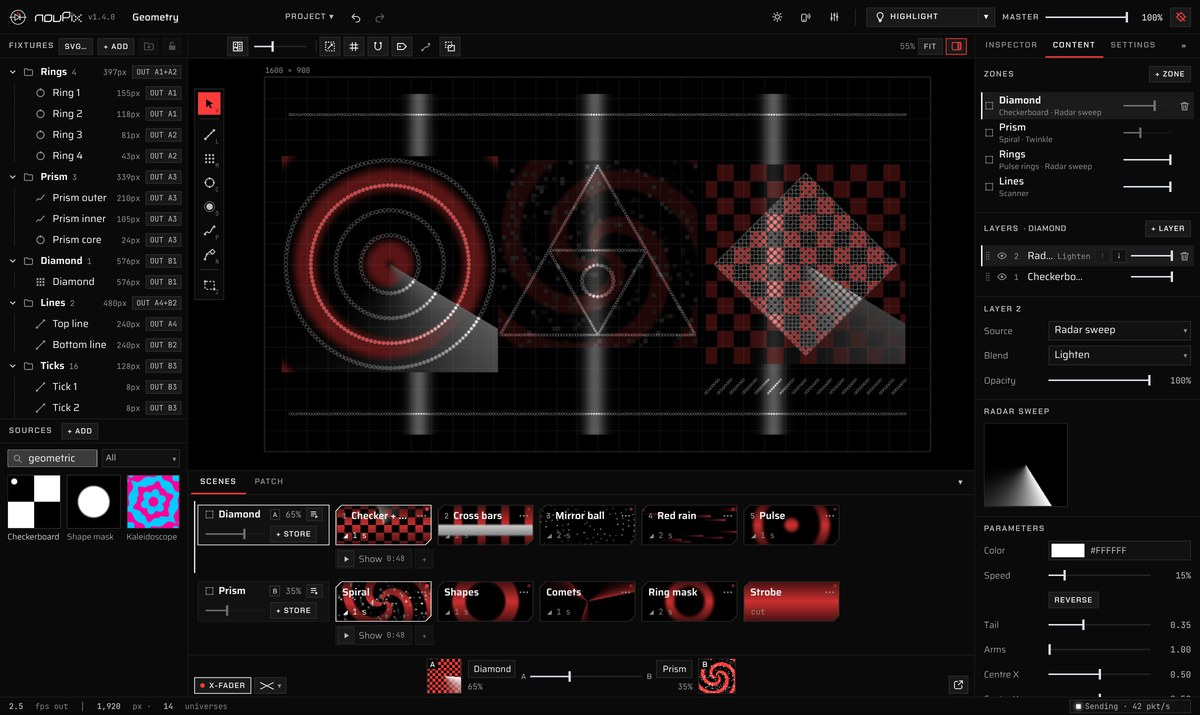
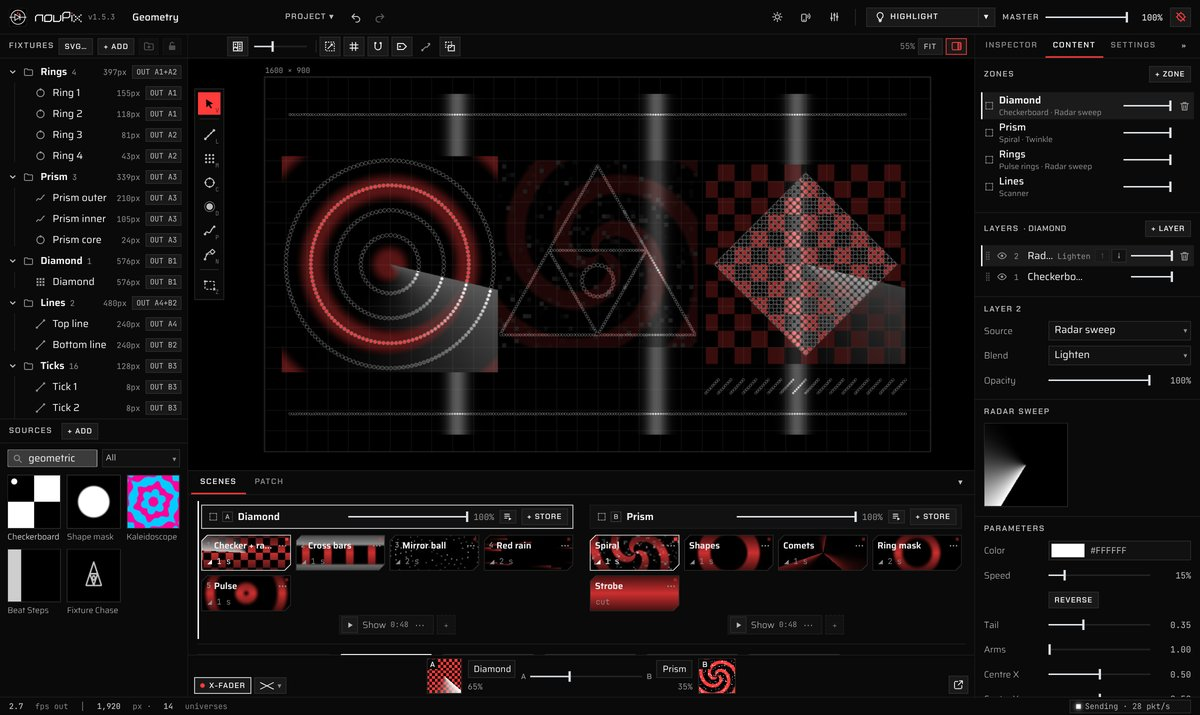
Site: 1.5.3 (follow the music, interactive content, DDP and WLED, the X-Fader's zones side by side); pictures from 1.5.3
Claude-Session: https://claude.ai/code/session_01TnTf954bCnfcgD4L8cjhPo

diff --git a/docs/index.html b/docs/index.html
@@ -4,9 +4,9 @@
 <meta charset="utf-8">
 <meta name="viewport" content="width=device-width, initial-scale=1">
 <title>nouPix · free, open-source LED pixel mapping</title>
-<meta name="description" content="nouPix maps your LED fixtures, plays effects, shaders, video and window capture on them in zones and layers, and sends it all out over Art-Net or sACN. Free and open source (AGPL-3.0), for macOS, Windows, Linux and Raspberry Pi.">
+<meta name="description" content="nouPix maps your LED fixtures, plays effects, shaders, video and window capture on them in zones and layers, follows the music, and sends it all out over Art-Net, sACN or DDP. Free and open source (AGPL-3.0), for macOS, Windows, Linux and Raspberry Pi.">
 <meta property="og:title" content="nouPix · free, open-source LED pixel mapping">
-<meta property="og:description" content="Map LED fixtures, play effects in zones and layers, send Art-Net or sACN. Free and open source.">
+<meta property="og:description" content="Map LED fixtures, play effects in zones and layers, follow the music, send Art-Net, sACN or DDP. Free and open source.">
 <meta property="og:image" content="https://noupix.nouled.com/img/og.jpg">
 <meta name="theme-color" content="#000000">
 <link rel="icon" href="img/favicon.svg" type="image/svg+xml">
@@ -347,19 +347,19 @@
     <div class="np-wrap">
       <p class="np-label"><span class="np-red">LED pixel mapping</span> · Art&#8209;Net · Free &amp; open source</p>
       <h1><span>Draw it.</span><span class="np-dim">Patch it.</span><span>Light it<span class="np-r" style="display:inline">.</span></span></h1>
-      <p class="np-lede">nouPix maps your LED fixtures, plays effects, shaders, video and window capture on them in <b>zones and layers</b>, and sends it all out over Art-Net or sACN. <b>Free and open source</b>, for macOS, Windows, Linux and Raspberry Pi.</p>
+      <p class="np-lede">nouPix maps your LED fixtures, plays effects, shaders, video and window capture on them in <b>zones and layers</b>, follows the music, and sends it all out over Art-Net, sACN or DDP. <b>Free and open source</b>, for macOS, Windows, Linux and Raspberry Pi.</p>
       <div class="np-cta">
         <a class="np-btn primary" href="#np-download">Download free <span class="np-arrow">↓</span></a>
         <a class="np-btn" data-np-href="" href="https://github.com/nouled-studio/nouPix">Source on GitHub <span class="np-arrow">↗</span></a>
       </div>
-      <p class="np-meta"><span data-np="version">v1.4.0</span> · macOS 12+ · Windows 10+ · Linux and Raspberry Pi from source · <span class="np-oss">AGPL-3.0</span></p>
+      <p class="np-meta"><span data-np="version">v1.5.3</span> · macOS 12+ · Windows 10+ · Linux and Raspberry Pi from source · <span class="np-oss">AGPL-3.0</span></p>
     </div>
     <div class="np-wrap">
       <div class="np-zone np-shotwrap">
         <span class="np-ztag"><b>Stage</b> Geometry · 4 zones <i>●</i></span>
         <figure class="np-shot">
           <span class="np-tick" aria-hidden="true"></span>
-          <picture><source media="(max-width:700px)" srcset="img/app-hero-m.webp" width="1572" height="1284"><img src="img/app-hero.webp" width="2400" height="1430" alt="nouPix playing a geometric show: concentric rings, nested triangles and a diamond matrix in four zones, red and white; fixture list, stage, scenes with playlists and the Content panel with the layers of the Diamond zone; the X-Fader at the bottom mixes Diamond (A) and Prism (B)"></picture>
+          <picture><source media="(max-width:700px)" srcset="img/app-hero-m.webp" width="1572" height="1284"><img src="img/app-hero.webp" width="2400" height="1430" alt="nouPix playing a geometric show: concentric rings, nested triangles and a diamond matrix in four zones, red and white; fixture list, stage, the scenes of Diamond (A) and Prism (B) side by side with their playlists, the X-Fader under them mixing the two, and the Content panel with the layers of the Diamond zone"></picture>
         </figure>
         <div class="np-shotbar"><span><b>geometry.noupix</b> · 26 fixtures · 1,920 pixels · 14 universes</span><span>4 zones · 7 layers · 20 scenes · 4 playlists</span></div>
       </div>
@@ -367,10 +367,10 @@
     <div class="np-wrap">
       <div class="np-facts">
         <ul>
-          <li><b>53</b><span>built-in effects</span></li>
+          <li><b>70</b><span>built-in effects, music and touch too</span></li>
           <li><b>Layers</b><span>in zones, 8 blend modes</span></li>
           <li><b>8 / 16-bit</b><span>fixtures and dimming curves</span></li>
-          <li><b>Art&#8209;Net + sACN</b><span>together, with discovery</span></li>
+          <li><b>Art&#8209;Net · sACN · DDP</b><span>together, with discovery</span></li>
           <li><b>MIDI</b><span>learn, patch bay, macros</span></li>
           <li><b>Remote / HTTP</b><span>phones, tablets, show control and building systems</span></li>
         </ul>
@@ -396,7 +396,7 @@
   <section class="np-sec" id="np-features">
     <div class="np-wrap">
       <div class="np-sechead"><span class="np-mono">//</span><h2>What it does</h2></div>
-      <p class="np-secsub">Every picture and film on this page was made in nouPix itself, with one project: four zones of geometry, red and white.</p>
+      <p class="np-secsub">Every picture and film on this page was made in nouPix itself, most with one project: four zones of geometry, red and white.</p>
 
       <article class="np-feat np-zone">
         <span class="np-ztag"><b>Zone 01</b> 100% <i>●</i></span>
@@ -481,7 +481,7 @@
           <h3>Effects, shaders, video, capture and streams</h3>
           <p>From slow washes for architecture to hard chases for a show, on any part of the layout.</p>
           <ul class="np-list">
-            <li>53 built-in effects, sorted by mood, use, look and motion</li>
+            <li>70 built-in effects, sorted by mood, use, look and motion</li>
             <li>Your own ISF shaders, images and video: trim, loop, with or without sound</li>
             <li>Window capture, for example from other VJ software</li>
             <li><b>NDI and OMT streams in</b> from Resolume, TouchDesigner, OBS and other computers, as a source on any layer</li>
@@ -494,54 +494,92 @@
         </figure>
       </article>
 
-      <article class="np-feat np-wide np-zone">
-        <span class="np-ztag"><b>Zone 04</b> 100% <i>●</i></span>
+      <article class="np-feat np-zone">
+        <span class="np-ztag"><b>Zone 04</b> 124 bpm <i>●</i></span>
         <div class="np-ftext">
-          <div>
-          <p class="np-fnum">04 <i>/ Scenes</i></p>
-          <h3>Store a look. Fade back to it</h3>
-          <p>Build the show once, then play it by hand or let it run by itself.</p>
-          </div>
+          <p class="np-fnum">04 <i>/ Music</i></p>
+          <h3>Follow the music</h3>
+          <p>nouPix listens to a sound input and finds the beat, or you tap it. The lights pulse, chase and swell with the music.</p>
           <ul class="np-list">
-            <li>Scenes per zone with crossfades; the fade time sits on each scene</li>
-            <li>Playlists of scenes with play times: in a loop, once, or handing over to another</li>
-            <li>Keys 1–9 play the scenes of the selected zone; a separate Scenes window for a second screen</li>
-            <li><b>X-Fader</b>: one fader between two zones, with a live preview of each; Mix, Dip or Cut</li>
-            <li>Snapshots on scenes: each button shows what it plays</li>
+            <li><b>Tempo</b> from any sound input: it follows the kick, holds through breaks and build-ups, and moves to the next track's tempo by itself</li>
+            <li>Or tap it, with a button or a MIDI pad; Downbeat puts beat 1 where you want it</li>
+            <li>12 effects on the beat, the bass or the part of the spectrum you choose, from hard strobes to slow atmospheric ones</li>
+            <li><b>Fixture Chase</b>: your groups or fixtures one after another on the beat, on its own or as a mask over any content</li>
+            <li>Your own ISF shaders follow it too</li>
           </ul>
         </div>
         <figure>
-          <div class="np-media np-cut"><img src="img/feature-scenes.webp" width="1572" height="453" loading="lazy" alt="The Scenes panel: the zones Diamond and Prism with five scenes each, every scene button showing a snapshot of what it plays, their fade times and a Show playlist under each zone; at the bottom the X-Fader, with the previews of Diamond (A) and Prism (B) and its fader a third of the way across"></div>
+          <div class="np-media np-cut"><img src="img/feature-music.webp" width="2180" height="1600" loading="lazy" alt="The Fixture Chase over a rainbow, filling the fixtures one by one on the beat, with its settings in the Content tab: steps by fixture, following a tapped 124 BPM"></div>
+        </figure>
+      </article>
+
+      <article class="np-feat np-flip np-zone">
+        <span class="np-ztag"><b>Zone 05</b> touch <i>●</i></span>
+        <div class="np-ftext">
+          <p class="np-fnum">05 <i>/ Touch</i></p>
+          <h3>Let people play with the light</h3>
+          <p>Interactive effects drift by themselves and follow a finger: the visitors stir the light on the façade.</p>
+          <ul class="np-list">
+            <li>Blobs, clouds, particles, ripples and smoke: a swipe keeps swirling after the finger lifts</li>
+            <li>A pad on the computer, with the mouse or a touch screen</li>
+            <li>Or a phone: <b>Interact</b> on the Remote page makes it a full-screen pad, with the fixtures on it</li>
+            <li>Several people can play at once</li>
+          </ul>
+        </div>
+        <figure>
+          <div class="np-media np-cut"><img src="img/feature-touch.webp" width="2180" height="1600" loading="lazy" alt="Touch Smoke: the smoke a finger stirred, curling and rising across the LED strips, with Interact in the effect's Parameters"></div>
         </figure>
       </article>
 
       <article class="np-feat np-wide np-zone">
-        <span class="np-ztag"><b>Zone 05</b> 100% <i>●</i></span>
+        <span class="np-ztag"><b>Zone 06</b> 100% <i>●</i></span>
         <div class="np-ftext">
           <div>
-          <p class="np-fnum">05 <i>/ Patch</i></p>
-          <h3>Patch once. Send Art&#8209;Net and <span style="text-transform:none">sACN</span></h3>
+          <p class="np-fnum">06 <i>/ Scenes</i></p>
+          <h3>Store a look. Fade back to it</h3>
+          <p>Build the show once, then play it by hand or let it run by itself.</p>
+          </div>
+          <ul class="np-list">
+            <li>Scenes per zone with crossfades; the fade time sits on each scene, and the scene playing keeps what you change live</li>
+            <li>Playlists of scenes with play times: in a loop, once, or handing over to another; each step's fade and play time on it, dragged or typed</li>
+            <li>Keys 1–9 play the scenes of the selected zone; a separate Scenes window for a second screen</li>
+            <li><b>X-Fader</b>: one fader between two zones, their scenes side by side, with a live preview of each; Mix, Dip or Cut</li>
+            <li>Snapshots on scenes: each button shows what it plays</li>
+          </ul>
+        </div>
+        <figure>
+          <div class="np-media np-cut"><img src="img/feature-scenes.webp" width="1572" height="453" loading="lazy" alt="The Scenes panel with the X-Fader on: Diamond (A) on the left and Prism (B) on the right, side by side, each with its level, + Store, its scenes in snapshots with their fade times and a Show playlist; at the bottom the X-Fader, with the previews of Diamond and Prism and its fader a third of the way across"></div>
+        </figure>
+      </article>
+
+      <article class="np-feat np-wide np-zone">
+        <span class="np-ztag"><b>Zone 07</b> 100% <i>●</i></span>
+        <div class="np-ftext">
+          <div>
+          <p class="np-fnum">07 <i>/ Patch</i></p>
+          <h3>Patch once. Send Art&#8209;Net, <span style="text-transform:none">sACN</span> and DDP</h3>
           <p>Drag fixtures onto controller outputs and the addresses follow.</p>
           </div>
           <ul class="np-list">
-            <li><b>Art-Net and sACN together</b>: each controller has its own protocol</li>
+            <li><b>Art-Net, sACN and DDP together</b>: each controller has its own protocol</li>
             <li>Outputs by universes or by pixels: give the pixels per output and nouPix works out the universes</li>
-            <li>Automatic addressing, each output's start and end, a Discovery window for the devices on the network and a Channel monitor in its own window</li>
+            <li>Automatic addressing, each output's start and end, a Discovery window for the devices on the network (WLED too, added filled in) and a Channel monitor in its own window</li>
             <li><b>sACN</b> (E1.31) unicast or multicast, with a priority so a lighting desk can take over</li>
+            <li><b>DDP</b> for WLED, Advatek, Falcon and other pixel controllers: one run of channels, none skipped</li>
             <li>16-bit fixtures, dimming curves, RGBW, gamma and colour trims</li>
             <li>Highlight lights fixtures on site: Trace, Flood, Color check, Spotlight, Pixel finder</li>
             <li>A CSV patch list for the install crew</li>
           </ul>
         </div>
         <figure>
-          <div class="np-media np-cut"><img src="img/feature-patch.webp" width="1572" height="453" loading="lazy" alt="The Patch panel: two controllers, Left on Art-Net and Right on sACN; Right selected, its outputs set by pixels (680 RGB pixels each), with each output's start and end, its fixtures, universes and channels"></div>
+          <div class="np-media np-cut"><img src="img/feature-patch.webp" width="1572" height="453" loading="lazy" alt="The Patch panel: two controllers, Left on Art-Net and Right on DDP; Right selected, its outputs set by pixels (680 RGB pixels each), with each output's first and last channel and its fixtures' channels"></div>
         </figure>
       </article>
 
       <article class="np-feat np-zone np-midi">
-        <span class="np-ztag"><b>Zone 06</b> learn <i>●</i></span>
+        <span class="np-ztag"><b>Zone 08</b> learn <i>●</i></span>
         <div class="np-ftext">
-          <p class="np-fnum">06 <i>/ MIDI</i></p>
+          <p class="np-fnum">08 <i>/ MIDI</i></p>
           <h3>Learn your controller in a second</h3>
           <p>Press Learn, move a fader, click what it should move.</p>
           <ul class="np-list">
@@ -558,13 +596,13 @@
       </article>
 
       <article class="np-feat np-flip np-zone">
-        <span class="np-ztag"><b>Zone 07</b> 100% <i>●</i></span>
+        <span class="np-ztag"><b>Zone 09</b> 100% <i>●</i></span>
         <div class="np-ftext">
-          <p class="np-fnum">07 <i>/ Remote</i></p>
+          <p class="np-fnum">09 <i>/ Remote</i></p>
           <h3>Hand a phone to the end user</h3>
           <p>The people who run the place get the buttons they need, not the mapping. Phones, tablets and other computers on the network log in with a role.</p>
           <ul class="np-list">
-            <li><em>Remote</em>: a simple page to play scenes and playlists and dim each zone, and the X-Fader when you choose</li>
+            <li><em>Remote</em>: a simple page to play scenes and playlists and dim each zone, and the X-Fader when you choose; a full-screen pad for interactive content</li>
             <li><em>Operator</em>: content, scenes and playlists; the mapping stays locked</li>
             <li><em>Programmer</em>: everything, with a password</li>
             <li>The phone page installs like an app</li>
@@ -577,9 +615,9 @@
       </article>
 
       <article class="np-feat np-zone">
-        <span class="np-ztag"><b>Zone 08</b> 100% <i>●</i></span>
+        <span class="np-ztag"><b>Zone 10</b> 100% <i>●</i></span>
         <div class="np-ftext">
-          <p class="np-fnum">08 <i>/ Look</i></p>
+          <p class="np-fnum">10 <i>/ Look</i></p>
           <h3>Black for the show. White for daylight</h3>
           <p>The interface is black, so the light on the stage is the brightest thing on screen. One click turns it white for working outside.</p>
           <ul class="np-list">
@@ -653,7 +691,7 @@
         </a>
       </div>
       <div class="np-dlmeta">
-        <span>Latest: <span data-np="version">v1.4.0</span><span data-np="date"></span></span>
+        <span>Latest: <span data-np="version">v1.5.3</span><span data-np="date"></span></span>
         <a data-np-href="/releases/latest" href="https://github.com/nouled-studio/nouPix/releases/latest">Release notes</a>
         <a data-np-href="/releases" href="https://github.com/nouled-studio/nouPix/releases">All versions</a>
         <a data-np-href="" href="https://github.com/nouled-studio/nouPix">Source code</a>
@@ -665,7 +703,7 @@
         <span class="np-ztag"><b>Source</b> any computer <i>●</i></span>
         <div>
           <h3>Run it from the source</h3>
-          <p>On Linux and the Raspberry Pi, or on any computer, nouPix runs straight from its source: a small Python program serves the interface and sends Art-Net or sACN. Nothing to build.</p>
+          <p>On Linux and the Raspberry Pi, or on any computer, nouPix runs straight from its source: a small Python program serves the interface and sends Art-Net, sACN or DDP. Nothing to build.</p>
           <p>You need <code>git</code>, Python 3.8 or newer and Chrome, Chromium or Edge. nouPix opens in its own window. Keep the terminal open while it plays: closing it stops the output. <code>python3 noupix.py --help</code> lists the options, for example <code>--bind-ip</code> to send from a specific network card.</p>
           <p><a class="np-ul" data-np-href="" href="https://github.com/nouled-studio/nouPix">Browse the code on GitHub ↗</a></p>
         </div>
@@ -675,7 +713,7 @@
           <pre><code><span class="p">$ </span>git clone <span data-np-clone>https://github.com/nouled-studio/nouPix.git</span>
 <span class="p">$ </span>cd nouPix
 <span class="p">$ </span>python3 noupix.py
-<span class="c">  nouPix 1.4.0
+<span class="c">  nouPix 1.5.3
   Interface   http://127.0.0.1:8080/</span></code></pre>
         </div>
       </div>
@@ -772,7 +810,7 @@
         <a href="#np-licence">Licence</a>
         <a href="https://www.nouled.com">nouled.com</a>
       </nav>
-      <p class="np-copy">© 2026 NOULED.STUDIO · nouPix <span data-np="version">v1.4.0</span> · free software under the GNU AGPL-3.0</p>
+      <p class="np-copy">© 2026 NOULED.STUDIO · nouPix <span data-np="version">v1.5.3</span> · free software under the GNU AGPL-3.0</p>
     </div>
   </footer>
 </div>
